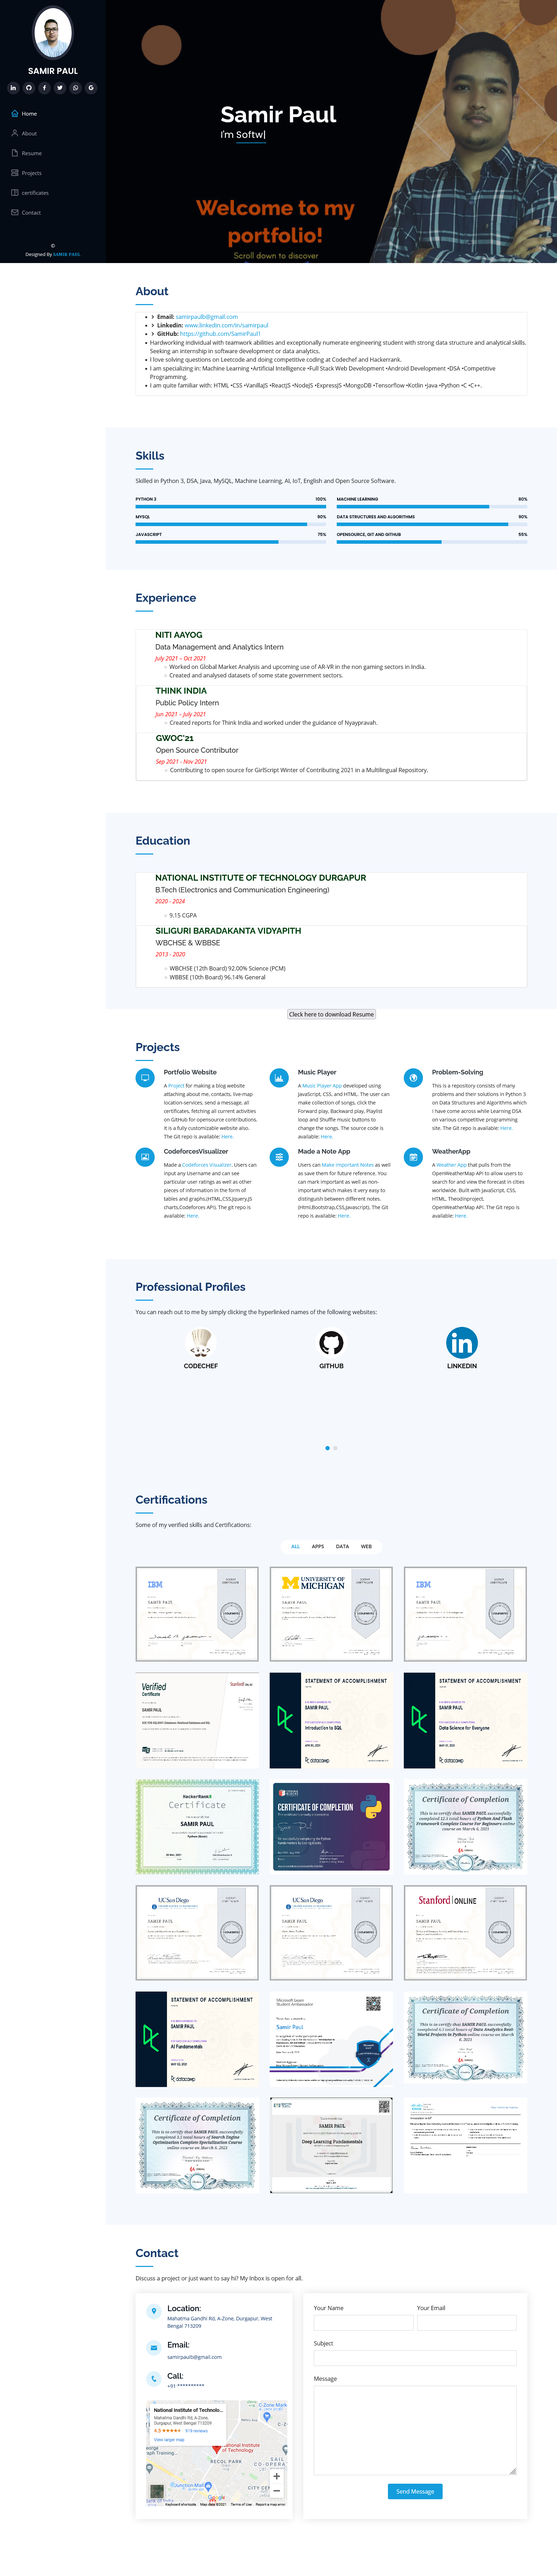
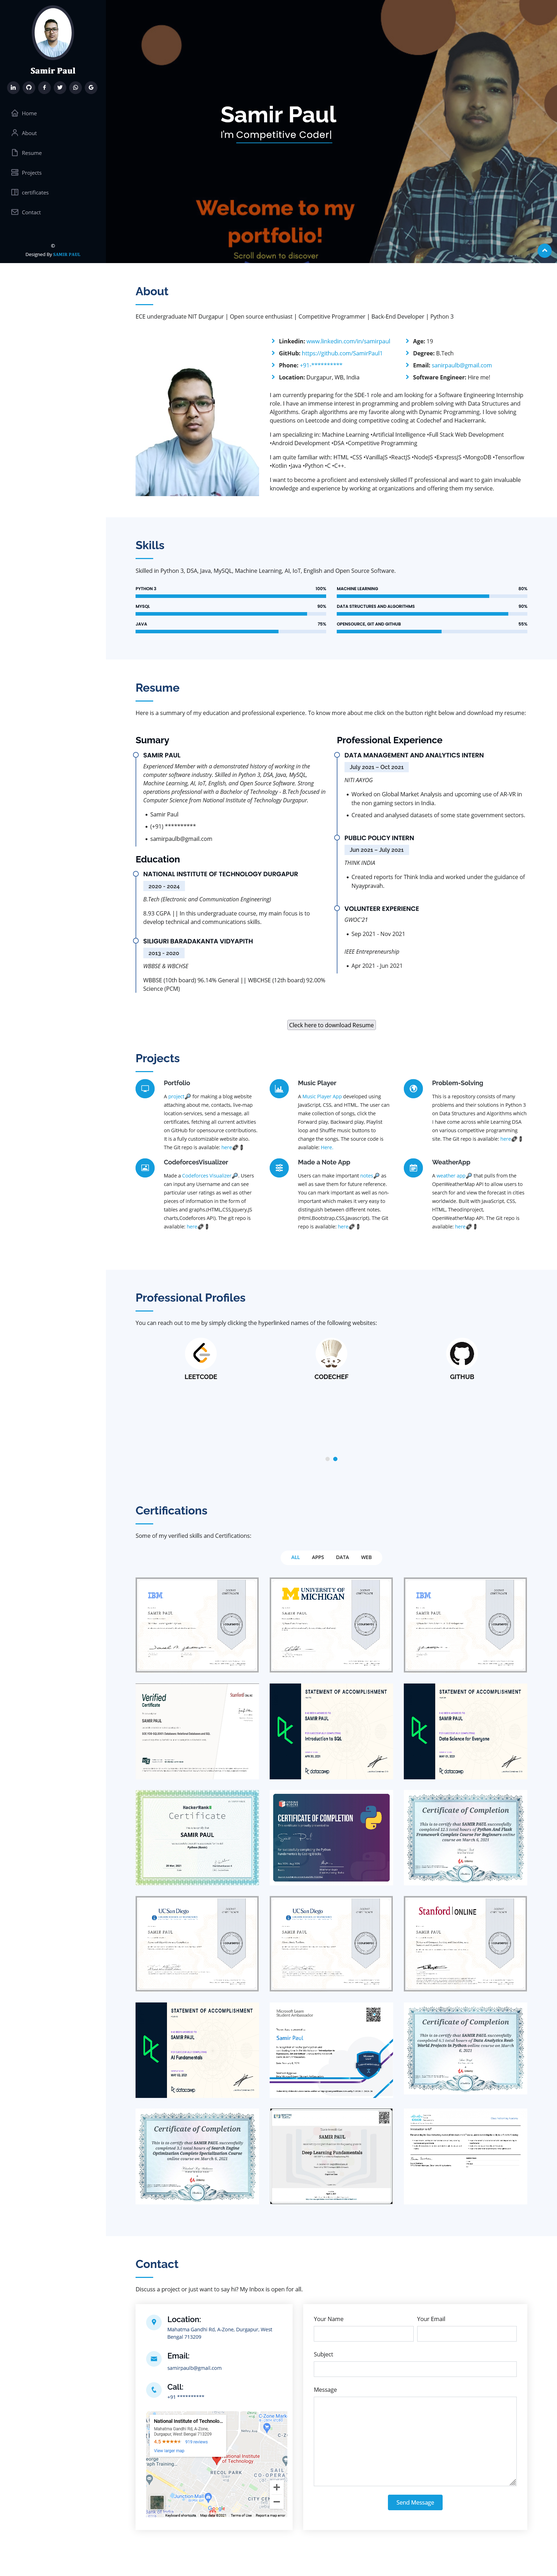
update view.png

diff --git a/index.html b/index.html
@@ -238,41 +238,40 @@ I want to become a proficient and extensively skilled IT professional and want t
               <h4>Siliguri Baradakanta Vidyapith</h4>
               <h5>2013 - 2020</h5>
               <p><em>WBBSE & WBCHSE</em></p>
-              <p>WBBSE (10th board) 96.14% general      ||                                                 
-              WBCHSE (12th board) 92.00% science</p>
+              <p>WBBSE (10th board) 96.14% General      ||                                                 
+              WBCHSE (12th board) 92.00% Science (PCM)</p>
             </div>
           </div>
           <div class="col-lg-6" data-aos="fade-up" data-aos-delay="100">
             <h3 class="resume-title">Professional Experience</h3>
             <div class="resume-item">
-              <h4>Group Member</h4>
-              <h5>2021</h5>
-              <p><em>IEEE </em></p>
+              <h4>Data Management and Analytics Intern</h4>
+              <h5>July 2021 – Oct 2021</h5>
+              <p><em>NITI AAYOG</em></p>
               <ul>
-                <li>____________________</li>
-                <li>_________________________________ </li>
-                <li>_________________________________________</li>
+                <li>Worked on Global Market Analysis and upcoming use of AR-VR in the non gaming sectors in India.</li>
+                <li>Created and analysed datasets of some state government sectors.</li>
+                
               </ul>
             </div>
             <div class="resume-item">
-              <h4>Web Developer</h4>
-              <h5>2020-Present</h5>
-              <p><em>NIT Durgapur</em></p>
+              <h4>Public Policy Intern</h4>
+              <h5>Jun 2021 – July 2021</h5>
+              <p><em>THINK INDIA</em></p>
               <ul>
-                <li>_______________________</li>
-                <li>______________________________________________</li>
-                <li>__________________________________________</li>
+                <li>Created reports for Think India and worked under the guidance of Nyaypravah.</li>
+                
               </ul>
             </div>
                <div class="resume-item">
               <h4>Volunteer experience</h4>
-              <p><em>GitHub Developer Program Member </em></p>
+              <p><em>GWOC'21</em></p>
               <ul>
-                <li>Mar 2021- present</li>
+                <li>Sep 2021 - Nov 2021</li>
                </ul>
-                <p><em>Think India </em></p>
+                <p><em>IEEE Entrepreneurship</em></p>
               <ul>
-                <li>Oct 2020- present</li>
+                <li>Apr 2021 - Jun 2021</li>
                </ul>
             </div>
           </div>
@@ -315,8 +314,9 @@ I want to become a proficient and extensively skilled IT professional and want t
           </div>
           <div class="col-lg-4 col-md-6 icon-box" data-aos="fade-up" data-aos-delay="100">
             <div class="icon"><i class="icofont-chart-bar-graph"></i></div>
-            <h4 class="title"><a href="https://github.com/SamirPaul1/SamirPaul1.django_project">Registration site</a></h4>
-            <p class="description"> <a href="https://github.com/SamirPaul1/SamirPaul1.django_project">project</a> for the registration of upcoming events with valid credentials provided by the institute. Otherwise, there is a support page you can contact with the admin by providing name, ID, email, etc. </p>
+            <h4 class="title"><a href="https://samirpaul1.github.io/music/"  target = "_blank"   >Music Player</a></h4>
+            <p class="description"> A <a href="https://samirpaul1.github.io/music/"  target = "_blank"   > Music Player App</a> developed using JavaScript, CSS, and HTML. The user can make collection of songs, click the Forward play, Backward play, Playlist loop and Shuffle music buttons to change the songs. The source code is available: <a href="https://github.com/samirpaul1/music"  target = "_blank"  >Here.
+              </a> </p></p>
           </div>
           <div class="col-lg-4 col-md-6 icon-box" data-aos="fade-up" data-aos-delay="200">
             <div class="icon"><i class="icofont-earth"></i></div>
